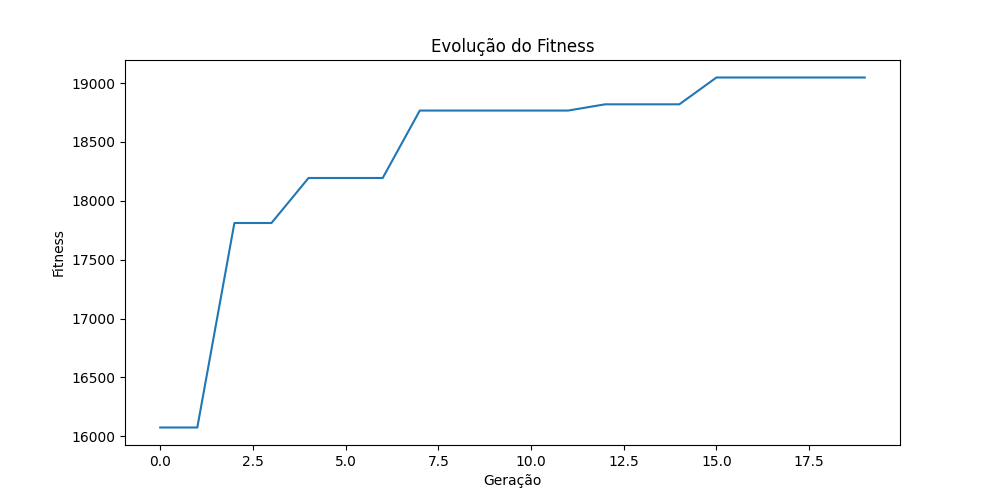
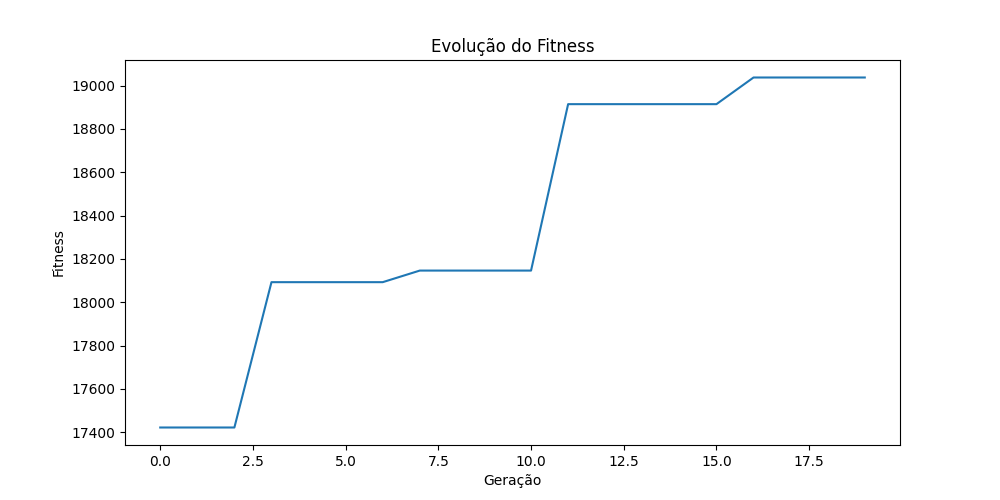
Alterando os valores do fitness

diff --git a/robo_exercicio.py b/robo_exercicio.py
@@ -760,7 +760,7 @@ class ProgramacaoGenetica:
                 fitness_tentativa = (
                     robo.recursos_coletados * 250 +  # Aumentado o peso dos recursos
                     robo.distancia_percorrida * 0.01 -  # Reduzido o peso da distância
-                    robo.colisoes * 150 -  # Aumentada a penalidade por colisões
+                    robo.colisoes * 180 -  # Aumentada a penalidade por colisões
                     (100 - robo.energia) * 0.2 +  # Reduzida a penalidade por energia
                     (600 if robo.meta_atingida else 0) +  # Bônus por atingir meta
                     (25 * (ambiente.max_tempo - ambiente.tempo) if robo.meta_atingida else 0)  # Bônus por eficiência temporal
